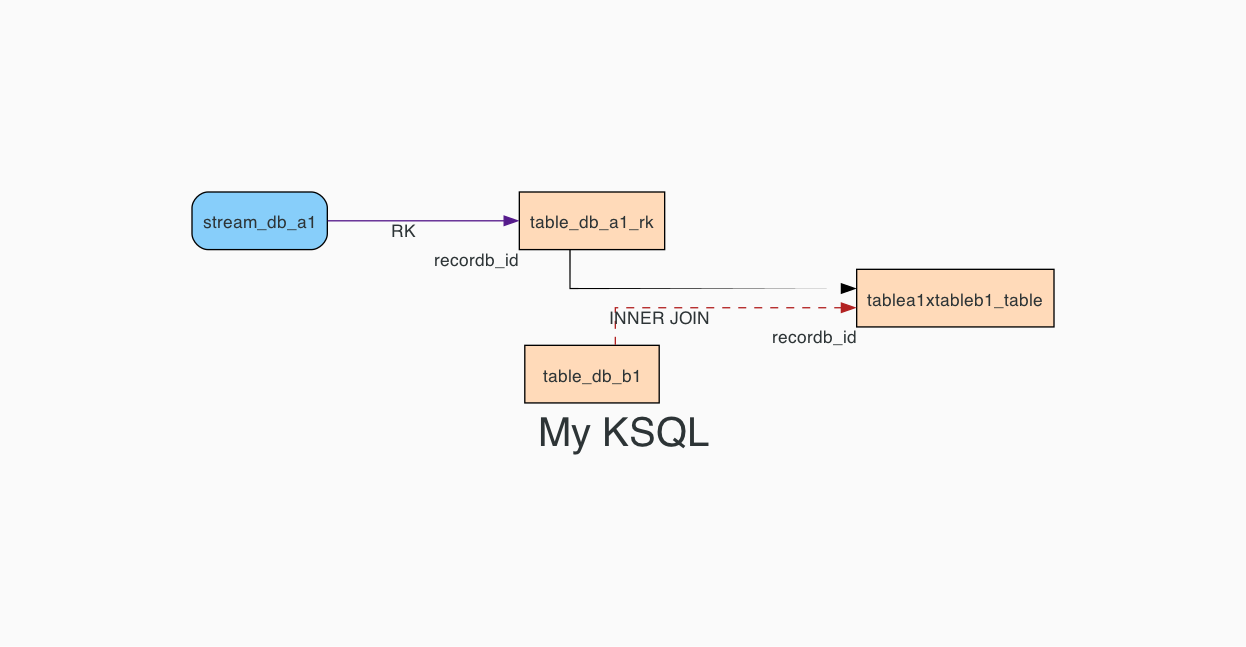
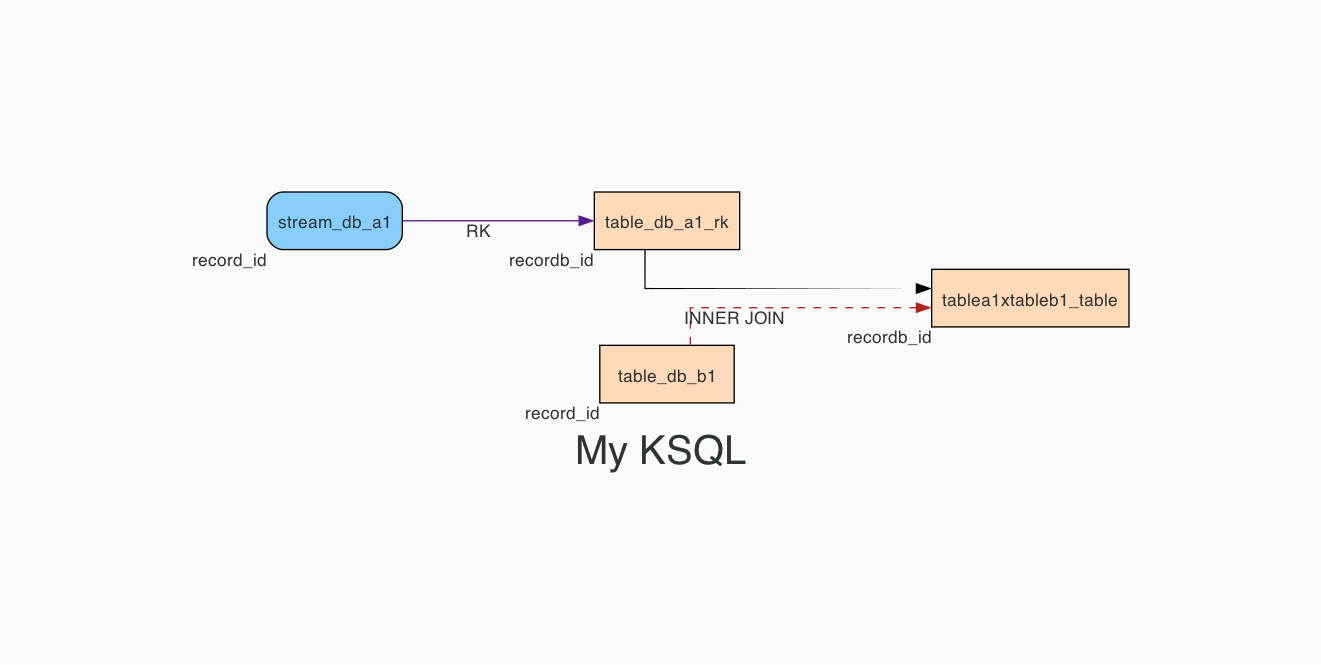
Fix bug in parsing

Changed region(s): [[0.3965, 0.4019, 0.8539, 0.711], [0.1525, 0.2782, 0.5795, 0.4328]]

diff --git a/parser/ksql_parser.py b/parser/ksql_parser.py
@@ -54,14 +54,14 @@ class KSQLParser:
       if re.search("insert into", lowerline) is not None:
         return None
 
-      elif re.search(" stream ", lowerline) is not None:
+      elif re.search("create", lowerline) and re.search(" stream ", lowerline) is not None:
         item = KSQLStream(self._extract_name(lowerline, "stream"))
       
-      elif re.search(" table ", lowerline) is not None:
+      elif re.search("create", lowerline) and re.search(" table ", lowerline) is not None:
         item = KSQLTable(self._extract_name(lowerline, "table"))
       
       elif (re.search(" key", lowerline) is not None) \
-        and (re.search("key_format", lowerline) is not None):
+        and (re.search("key_format", lowerline) is None):
         item.withKey(self._extract_key(lowerline))
       
       elif re.search("^group by", lowerline) is not None:
@@ -121,7 +121,10 @@ class KSQLParser:
 
 
   def _extract_key(self, input: str) -> str:
+    print("----------")
+    print(input)
     linepart = input.strip().split(" ",2)[0].strip()
+    print(f"{linepart} <- {input}")
     return linepart
 
 
@@ -180,7 +183,9 @@ class KSQLParser:
             
         # streams
         elif isinstance(item, KSQLStream):
-          draw_objects[item.name] = Node(label=self.multilines(item.name), xlabel=self.multilines(item.key), height="0.6", \
+          print(item)
+
+          draw_objects[item.name] = Node(label=self.multilines(item.name), xlabel=self.multilines(item.key, 30), height="0.6", \
                                         fixedsize="false", labelloc="c", shape="box", \
                                         color="black", style="filled,rounded", fillcolor="lightskyblue")
 
